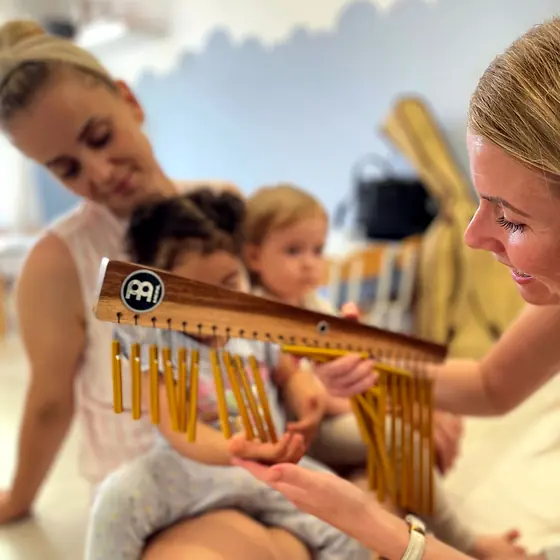
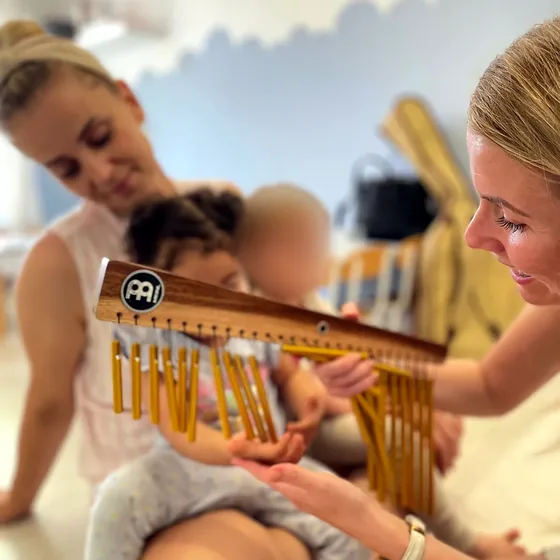
Zdjęcie muzyka/05: rozmyta twarz dziecka w tle
Claude-Session: https://claude.ai/code/session_01QftivbKU7iw6DHabSRVpvj

Changed region(s): [[0.425, 0.3339, 0.6071, 0.5464]]

diff --git a/index.html b/index.html
@@ -430,11 +430,11 @@
   <p class="act-lead"><strong>Koncerty gordonowskie</strong> przygotowuje dla nas Mariola Dereń z&nbsp;autorskim projektem koncertów gordonowskich w&nbsp;ramach <a href="https://www.facebook.com/WytwornikMuzyczny/" target="_blank" rel="noopener">Wytwórnika Muzycznego</a>. Nawiązują do teorii uczenia się muzyki Edwina Gordona. Muzycy grają i&nbsp;śpiewają na żywo, często bez słów, a&nbsp;dzieci słuchają tak, jak chcą: siedząc, leżąc, tańcząc albo podchodząc do instrumentów. Tak, jak przy nauce mowy, najpierw osłuchują się z&nbsp;muzyką, a&nbsp;dopiero potem same zaczynają ją tworzyć.</p>
   <ul class="act-facts"><li><strong>Raz w&nbsp;miesiącu</strong><span>Grajki Małej Zgrajki z&nbsp;Natalią Bury</span></li><li><strong>2 razy w&nbsp;roku</strong><span>koncerty gordonowskie z&nbsp;Wytwórnikiem Muzycznym</span></li><li><strong>W&nbsp;pakiecie zajęć</strong><span>jeden pakiet obejmuje wszystkie spotkania</span></li></ul>
   <h3 class="act-gal-title">Z&nbsp;Grajek Małej Zgrajki</h3>
-  <div class="act-gallery act-gallery--5"><button type="button" class="act-photo" data-index="0"><img src="assets/zajecia/muzyka/t/01.webp" width="560" height="560" loading="lazy" alt="Rytm i uśmiech"></button><button type="button" class="act-photo" data-index="1"><img src="assets/zajecia/muzyka/t/02.webp" width="560" height="560" loading="lazy" alt="Kolorowe dzwonki chromatyczne"></button><button type="button" class="act-photo" data-index="2"><img src="assets/zajecia/muzyka/t/03.webp" width="560" height="560" loading="lazy" alt="Dzwonki tuż nad stópkami"></button><button type="button" class="act-photo" data-index="3"><img src="assets/zajecia/muzyka/t/04.webp" width="560" height="560" loading="lazy" alt="Wspólne muzykowanie w kręgu"></button><button type="button" class="act-photo" data-index="4"><img src="assets/zajecia/muzyka/t/05.webp" width="560" height="560" loading="lazy" alt="Dźwięki, które można dotknąć"></button></div>
+  <div class="act-gallery act-gallery--5"><button type="button" class="act-photo" data-index="0"><img src="assets/zajecia/muzyka/t/01.webp" width="560" height="560" loading="lazy" alt="Rytm i uśmiech"></button><button type="button" class="act-photo" data-index="1"><img src="assets/zajecia/muzyka/t/02.webp" width="560" height="560" loading="lazy" alt="Kolorowe dzwonki chromatyczne"></button><button type="button" class="act-photo" data-index="2"><img src="assets/zajecia/muzyka/t/03.webp" width="560" height="560" loading="lazy" alt="Dzwonki tuż nad stópkami"></button><button type="button" class="act-photo" data-index="3"><img src="assets/zajecia/muzyka/t/04.webp" width="560" height="560" loading="lazy" alt="Wspólne muzykowanie w kręgu"></button><button type="button" class="act-photo" data-index="4"><img src="assets/zajecia/muzyka/t/05.webp?v=2" width="560" height="560" loading="lazy" alt="Dźwięki, które można dotknąć"></button></div>
   <h3 class="act-gal-title act-gal-next">Z&nbsp;koncertu gordonowskiego</h3>
   <div class="act-gallery act-gallery--3"><button type="button" class="act-photo" data-index="5"><img src="assets/zajecia/muzyka/t/06.webp" width="560" height="560" loading="lazy" alt="Tęczowy parasol i muzyka na żywo"></button><button type="button" class="act-photo" data-index="6"><img src="assets/zajecia/muzyka/t/07.webp" width="560" height="560" loading="lazy" alt="Muzyczna opowieść o pogodzie"></button><button type="button" class="act-photo" data-index="7"><img src="assets/zajecia/muzyka/t/08.webp" width="560" height="560" loading="lazy" alt="Scenografia koncertu: słońce, chmurka i krople deszczu"></button></div>
   <p class="act-hint">Kliknij zdjęcie, żeby je powiększyć.</p>
-  <script type="application/json" class="act-data">[{"src": "assets/zajecia/muzyka/01.webp", "cap": "Rytm i uśmiech"}, {"src": "assets/zajecia/muzyka/02.webp", "cap": "Kolorowe dzwonki chromatyczne"}, {"src": "assets/zajecia/muzyka/03.webp", "cap": "Dzwonki tuż nad stópkami"}, {"src": "assets/zajecia/muzyka/04.webp", "cap": "Wspólne muzykowanie w kręgu"}, {"src": "assets/zajecia/muzyka/05.webp", "cap": "Dźwięki, które można dotknąć"}, {"src": "assets/zajecia/muzyka/06.webp", "cap": "Tęczowy parasol i muzyka na żywo"}, {"src": "assets/zajecia/muzyka/07.webp", "cap": "Muzyczna opowieść o pogodzie"}, {"src": "assets/zajecia/muzyka/08.webp", "cap": "Scenografia koncertu: słońce, chmurka i krople deszczu"}]</script>
+  <script type="application/json" class="act-data">[{"src": "assets/zajecia/muzyka/01.webp", "cap": "Rytm i uśmiech"}, {"src": "assets/zajecia/muzyka/02.webp", "cap": "Kolorowe dzwonki chromatyczne"}, {"src": "assets/zajecia/muzyka/03.webp", "cap": "Dzwonki tuż nad stópkami"}, {"src": "assets/zajecia/muzyka/04.webp", "cap": "Wspólne muzykowanie w kręgu"}, {"src": "assets/zajecia/muzyka/05.webp?v=2", "cap": "Dźwięki, które można dotknąć"}, {"src": "assets/zajecia/muzyka/06.webp", "cap": "Tęczowy parasol i muzyka na żywo"}, {"src": "assets/zajecia/muzyka/07.webp", "cap": "Muzyczna opowieść o pogodzie"}, {"src": "assets/zajecia/muzyka/08.webp", "cap": "Scenografia koncertu: słońce, chmurka i krople deszczu"}]</script>
 </dialog>
 <dialog class="act-dialog" id="act-zwierzeta" aria-labelledby="act-zwierzeta-title">
   <button type="button" class="act-close" aria-label="Zamknij">×</button>

diff --git a/en/index.html b/en/index.html
@@ -429,11 +429,11 @@
   <p class="act-lead"><strong>Gordon concerts</strong> are prepared for us by Mariola Dereń, with her own Gordon concert project within <a href="https://www.facebook.com/WytwornikMuzyczny/" target="_blank" rel="noopener">Wytwórnik Muzyczny</a>. They are based on Edwin Gordon’s music learning theory. Musicians play and sing live, often without words, and children listen however they like: sitting, lying down, dancing or walking up to the instruments. Just as with learning to speak, they first soak up music and only later start making it themselves.</p>
   <ul class="act-facts"><li><strong>Once a month</strong><span>Grajki Małej Zgrajki with Natalia Bury</span></li><li><strong>Twice a year</strong><span>Gordon concerts with Wytwórnik Muzyczny</span></li><li><strong>In the activities package</strong><span>one package covers every session</span></li></ul>
   <h3 class="act-gal-title">From Grajki Małej Zgrajki</h3>
-  <div class="act-gallery act-gallery--5"><button type="button" class="act-photo" data-index="0"><img src="../assets/zajecia/muzyka/t/01.webp" width="560" height="560" loading="lazy" alt="Rhythm and smiles"></button><button type="button" class="act-photo" data-index="1"><img src="../assets/zajecia/muzyka/t/02.webp" width="560" height="560" loading="lazy" alt="Colourful chime bars"></button><button type="button" class="act-photo" data-index="2"><img src="../assets/zajecia/muzyka/t/03.webp" width="560" height="560" loading="lazy" alt="Chimes right above little feet"></button><button type="button" class="act-photo" data-index="3"><img src="../assets/zajecia/muzyka/t/04.webp" width="560" height="560" loading="lazy" alt="Making music together in a circle"></button><button type="button" class="act-photo" data-index="4"><img src="../assets/zajecia/muzyka/t/05.webp" width="560" height="560" loading="lazy" alt="Sounds you can touch"></button></div>
+  <div class="act-gallery act-gallery--5"><button type="button" class="act-photo" data-index="0"><img src="../assets/zajecia/muzyka/t/01.webp" width="560" height="560" loading="lazy" alt="Rhythm and smiles"></button><button type="button" class="act-photo" data-index="1"><img src="../assets/zajecia/muzyka/t/02.webp" width="560" height="560" loading="lazy" alt="Colourful chime bars"></button><button type="button" class="act-photo" data-index="2"><img src="../assets/zajecia/muzyka/t/03.webp" width="560" height="560" loading="lazy" alt="Chimes right above little feet"></button><button type="button" class="act-photo" data-index="3"><img src="../assets/zajecia/muzyka/t/04.webp" width="560" height="560" loading="lazy" alt="Making music together in a circle"></button><button type="button" class="act-photo" data-index="4"><img src="../assets/zajecia/muzyka/t/05.webp?v=2" width="560" height="560" loading="lazy" alt="Sounds you can touch"></button></div>
   <h3 class="act-gal-title act-gal-next">From a Gordon concert</h3>
   <div class="act-gallery act-gallery--3"><button type="button" class="act-photo" data-index="5"><img src="../assets/zajecia/muzyka/t/06.webp" width="560" height="560" loading="lazy" alt="A rainbow umbrella and live music"></button><button type="button" class="act-photo" data-index="6"><img src="../assets/zajecia/muzyka/t/07.webp" width="560" height="560" loading="lazy" alt="A musical story about the weather"></button><button type="button" class="act-photo" data-index="7"><img src="../assets/zajecia/muzyka/t/08.webp" width="560" height="560" loading="lazy" alt="Concert set: sun, cloud and raindrops"></button></div>
   <p class="act-hint">Tap a photo to enlarge it.</p>
-  <script type="application/json" class="act-data">[{"src": "../assets/zajecia/muzyka/01.webp", "cap": "Rhythm and smiles"}, {"src": "../assets/zajecia/muzyka/02.webp", "cap": "Colourful chime bars"}, {"src": "../assets/zajecia/muzyka/03.webp", "cap": "Chimes right above little feet"}, {"src": "../assets/zajecia/muzyka/04.webp", "cap": "Making music together in a circle"}, {"src": "../assets/zajecia/muzyka/05.webp", "cap": "Sounds you can touch"}, {"src": "../assets/zajecia/muzyka/06.webp", "cap": "A rainbow umbrella and live music"}, {"src": "../assets/zajecia/muzyka/07.webp", "cap": "A musical story about the weather"}, {"src": "../assets/zajecia/muzyka/08.webp", "cap": "Concert set: sun, cloud and raindrops"}]</script>
+  <script type="application/json" class="act-data">[{"src": "../assets/zajecia/muzyka/01.webp", "cap": "Rhythm and smiles"}, {"src": "../assets/zajecia/muzyka/02.webp", "cap": "Colourful chime bars"}, {"src": "../assets/zajecia/muzyka/03.webp", "cap": "Chimes right above little feet"}, {"src": "../assets/zajecia/muzyka/04.webp", "cap": "Making music together in a circle"}, {"src": "../assets/zajecia/muzyka/05.webp?v=2", "cap": "Sounds you can touch"}, {"src": "../assets/zajecia/muzyka/06.webp", "cap": "A rainbow umbrella and live music"}, {"src": "../assets/zajecia/muzyka/07.webp", "cap": "A musical story about the weather"}, {"src": "../assets/zajecia/muzyka/08.webp", "cap": "Concert set: sun, cloud and raindrops"}]</script>
 </dialog>
 <dialog class="act-dialog" id="act-zwierzeta" aria-labelledby="act-zwierzeta-title">
   <button type="button" class="act-close" aria-label="Close">×</button>
